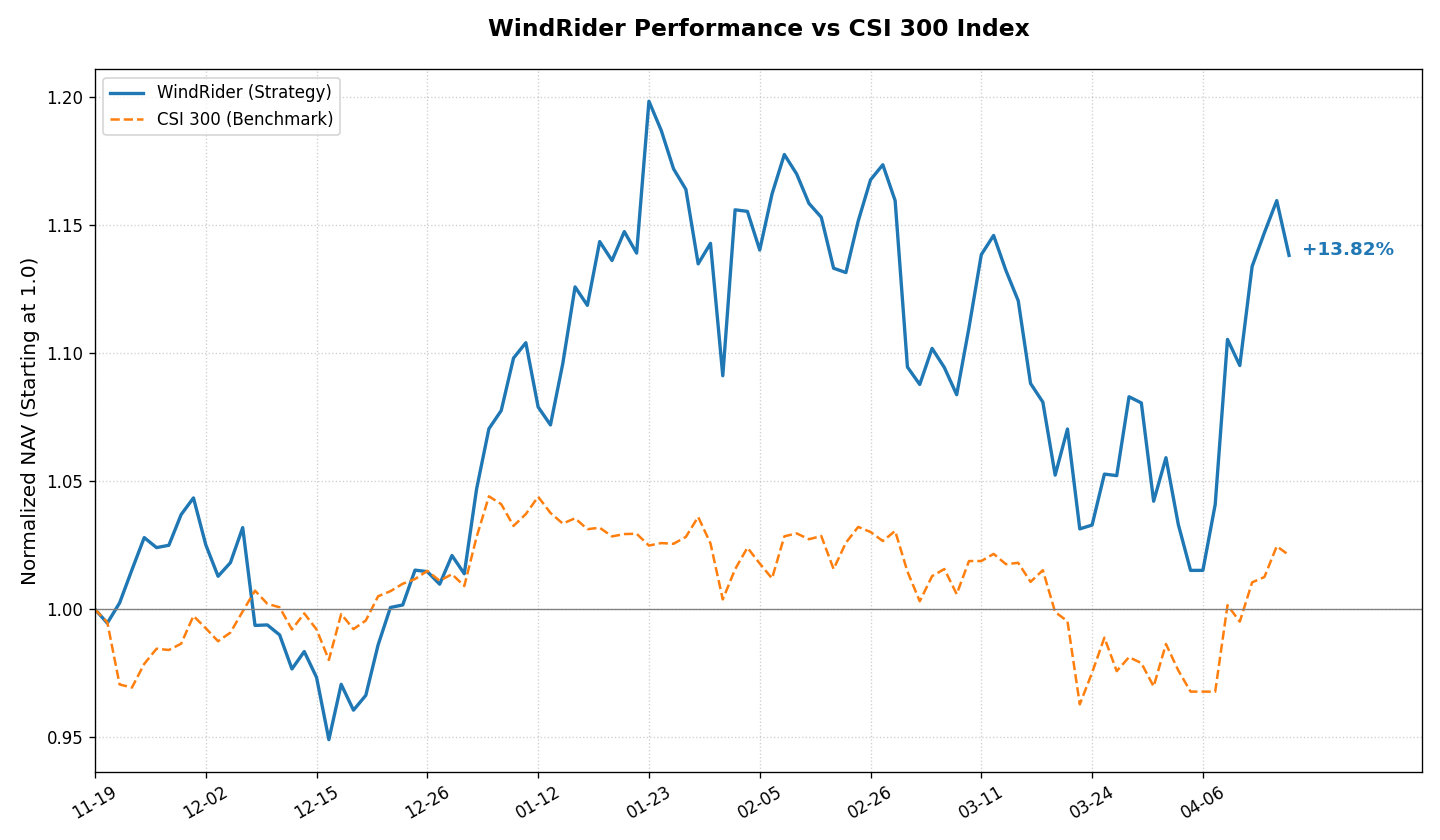
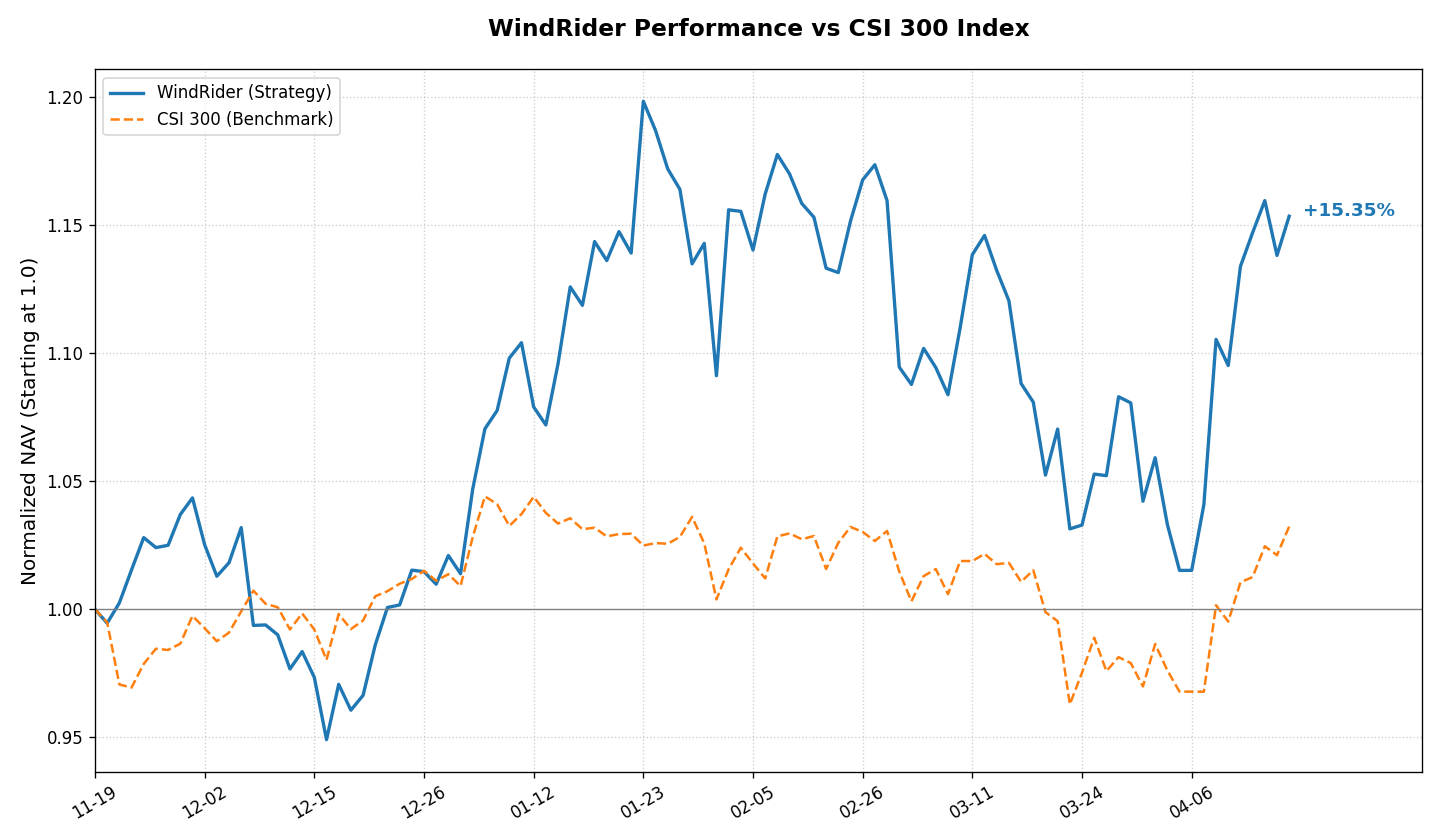
Updated Hugo site content

diff --git a/content/investment/position.md b/content/investment/position.md
@@ -1,8 +1,8 @@
 +++
 title = "如山-股票组合持仓 /// Position"
 summary = "主动管理型股票组合。对标沪深300指数，采用基本面选股策略。"
-date = 2026-04-15T15:12:04+08:00
-lastmod = 2026-04-15T15:12:04+08:00
+date = 2026-04-16T15:12:04+08:00
+lastmod = 2026-04-16T15:12:04+08:00
 draft = false
 description = "如山股票组合持仓"
 +++
@@ -10,32 +10,32 @@ description = "如山股票组合持仓"
 .post-header, .article-header { display: none !important; }
 </style>
 
-### 风舵股票组合 &nbsp;&nbsp;<span style="color: #E63946; font-weight: bold;">/</span><span style="color: #F1A73E; font-weight: bold;">/</span><span style="color: #000091; font-weight: bold;">/</span>&nbsp;&nbsp; 每日持仓
+### 如山股票组合 &nbsp;&nbsp;<span style="color: #E63946; font-weight: bold;">/</span><span style="color: #F1A73E; font-weight: bold;">/</span><span style="color: #000091; font-weight: bold;">/</span>&nbsp;&nbsp; 每日持仓
 WindRider Equity Portfolio <br>
-净值简报 <small>(截至: 2026-04-15)</small>
+净值简报 <small>(截至: 2026-04-16)</small>
 
 |  |  |
 | :--- | :--- |
 | **指数代码：** | WDR.EQ |
 | **成立日期：** | 2025-11-19 |
-| **最新净值：** | 1.1382 |
-| **今日涨跌：** | -1.85% |
+| **最新净值：** | 1.1535 |
+| **今日涨跌：** | +1.34% |
 
 ===========================
 
 | 核心表现 | |
 | :--- | :--- |
-| **累计收益：** | +13.82% |
-| **年化收益：** | +37.91% |
+| **累计收益：** | +15.35% |
+| **年化收益：** | +42.22% |
 | **最大回撤：** | -15.29% |
-| **基准点位：** | 4685.25 (CSI300) |
-| **策略状态：** | 已运行 148 天 |
+| **基准点位：** | 4736.61 (CSI300) |
+| **策略状态：** | 已运行 149 天 |
 
 ### 持仓明细
 | 股票名称 | 成本价 | 现价 | 盈亏 | 占比 |
 | :--- | :--- | :--- | :--- | :--- | :--- |
-| 先导智能 <small>300450</small> | 52.20 | 52.86 | <span style="color:#E63946">+1.26%</span> | 61.17% |
-| 比亚迪 <small>002594</small> | 100.19 | 103.03 | <span style="color:#E63946">+2.83%</span> | 17.03% |
+| 先导智能 <small>300450</small> | 52.20 | 53.66 | <span style="color:#E63946">+2.80%</span> | 61.28% |
+| 比亚迪 <small>002594</small> | 100.19 | 105.54 | <span style="color:#E63946">+5.34%</span> | 17.22% |
 
 <br>
 
